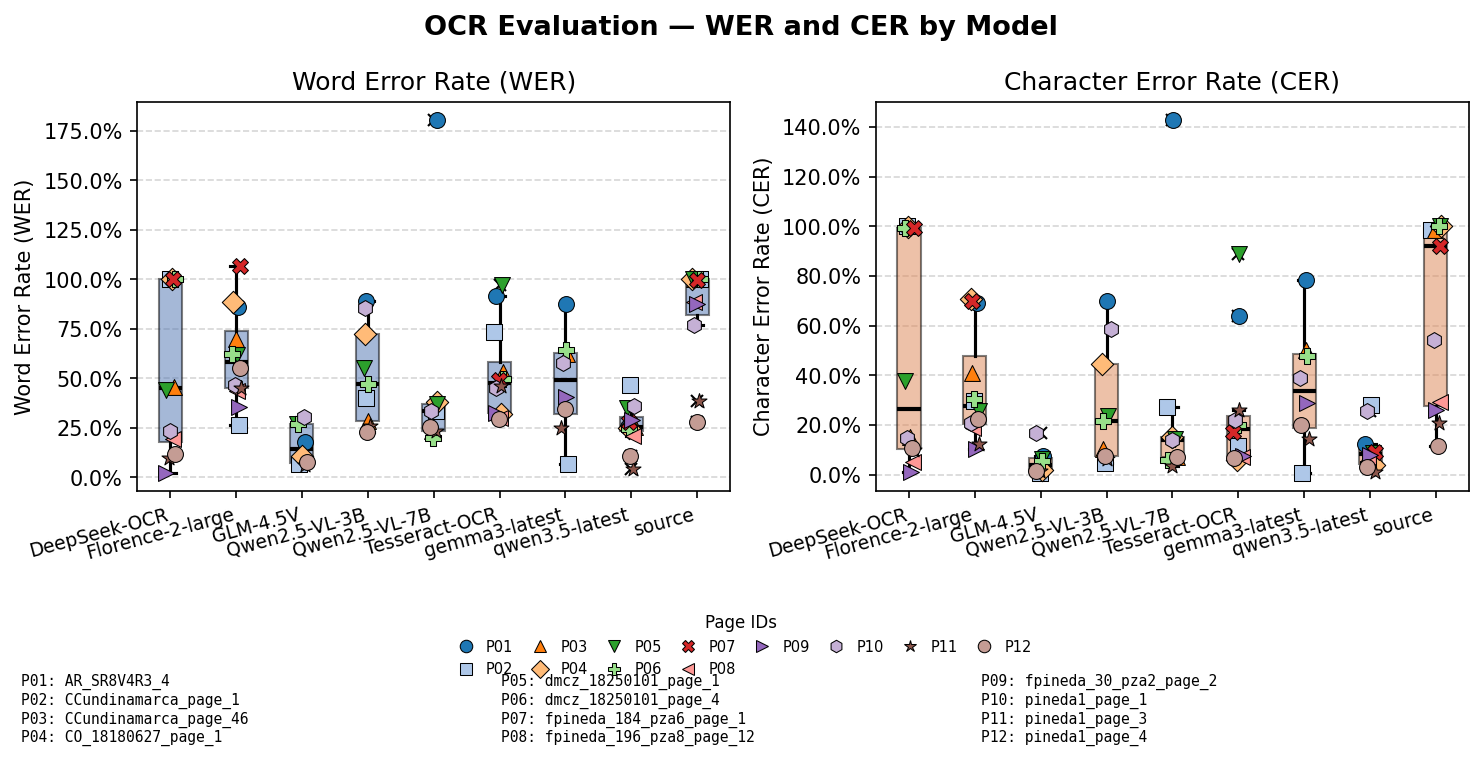
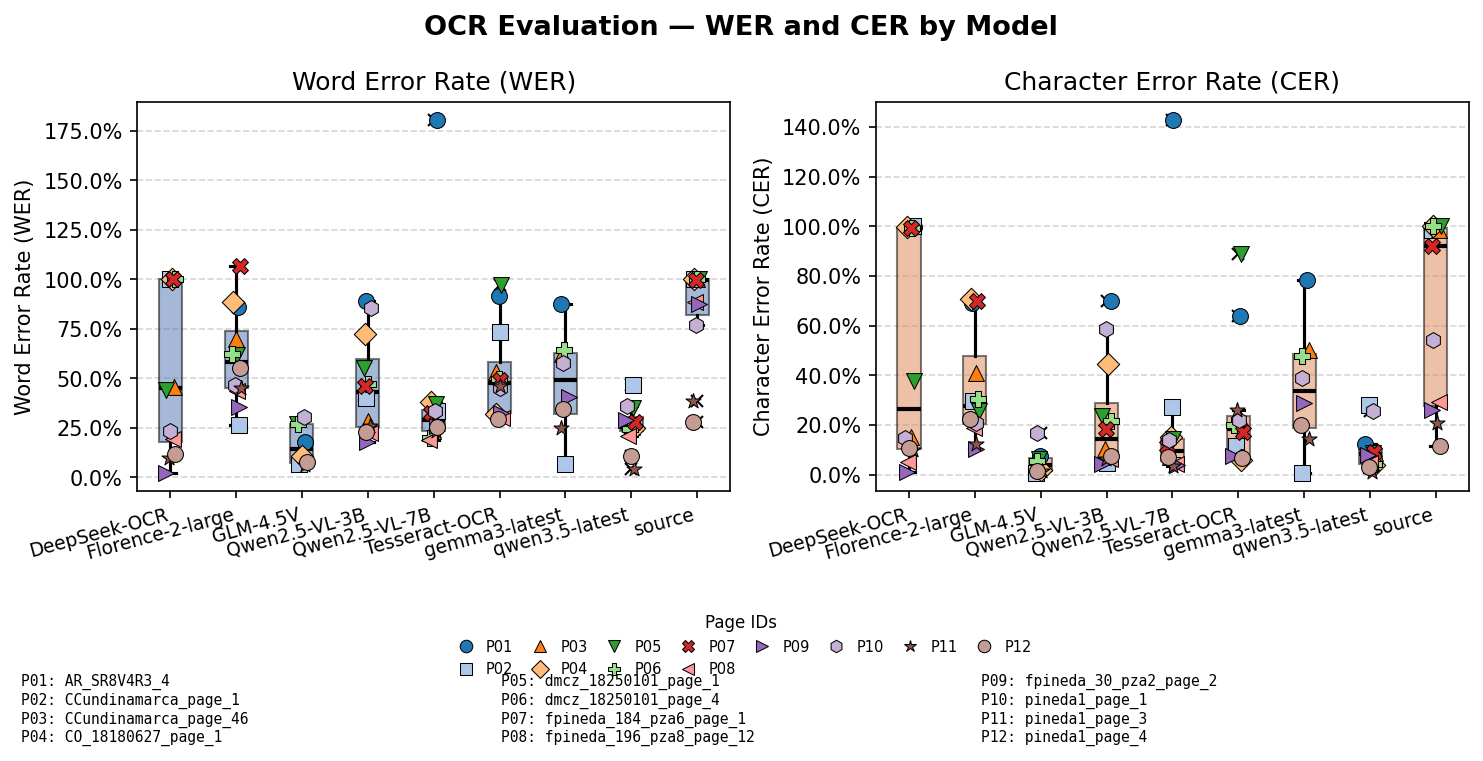
Add evaluations and transcriptions for historical documents
- Created evaluation JSON files for Qwen2.5-VL-3B and Qwen2.5-VL-7B models, including text, OCR, WER, and CER metrics.
- Added transcriptions in Markdown format for various historical documents, including "DIARIO POLITICO" and obituaries from the 18th century.
- Updated model notebook to include new image paths for evaluation.
- Modified results boxplot image to reflect new evaluation data.

diff --git a/transcriptions/Qwen2.5-VL-7B/fpineda_184_pza6_page_1.md b/transcriptions/Qwen2.5-VL-7B/fpineda_184_pza6_page_1.md
@@ -1,0 +1,42 @@
+```
+N.I.
+DIARIO POLITICO
+DE SANTAFE DE BOGOTA
+Agosto 27 de 1810.
+PROSPECTO.
+Pedicreptam se ad
+laudar libertate
+quam brevi creverit.... Livius.
+
+Difundir las fiezes, instruir á los pueblos, señalar los peligros que nos ameenzan, y el camino para evitarlos, fixar la opinion, reunir las volun-
+tades y alcanzar la libertad y la independencia solo puede conseguiurse por medio de la Imprenta. La circulacion rapida de los papeles publicos,
+la brevedad de los discursos, el lacornismo y la eleccion de las maneras
+que los caraterizan los hacen los mas aproposito para conseguir estos fines
+importantes Son utilles á todo pueblo civilizado, y preciosos en las convine-
+ncias politicas. Se multiplician á voluntade, llevan á todas partes los principio's,
+las laces, y dispinan los mudabilos que en todo momento forman la seducion y la est-
+humna. Solo ellos pueden inspirar la unión, estímar los espéritus, y tranquilzif
+los tempestades Qualquier otro medio es insuficiente, lento, y sospechoso,
+
+Nosotros, que el dia 20 de Julio de 1810 conquistamos nuestra
+independencia, nosotros, que formamos una junta en quien depositamos la
+authoridad, nosotros, que hemos visto degenerar en furor al zeio mos an-
+diente, y generoso, nosotros que hemos visto momentos de verdadera amar-
+quis, que aun no nos hemos organizado, que confundimos las providen-
+cias provisionales con la constitution, que queremos reyne la paz, el ór-
+den, y la ceredient en medio de las dias de una tempestad política, que
+nadvertsidos queremos cegar ya los frutos de una larga independence', nos
+exijimos de la Junja operaciones que necesitan estudio, prodúsice, me-
+diacion, y tiempo, nosotros, en una palabra, que fluctuamos en un Océano
+de ideas inmeçenas, sin experiencia, y casi sin principios necesiciamos d- diariopolítico que nuestros Frankinos y nuestros Washingtones derretían
+luezes y fixen nuestra incerteza y nuestra incertidumbre. La Capital ignora el
+modo de pensar de las provincias, y las provincias desean saber las lecota
+ciones de la Capital Tudo. El Reyno ha fixado ya sus ojos sobre nosotros,
+y nosotros debemos instruirlo por el conducto de la Imprenta.
+
+Ya se acabó este tiempo de silencio y de muerdios, y se rom-
+pieron las cadenas que han aplispanado á la razón y el ingernio despai-
+rciea para siempre esa reserva injusto á nuestra fidelidad, y ese secreto,
+
+©Biblioteca Nacional de Colombia
+```

diff --git a/transcriptions/Qwen2.5-VL-7B/fpineda_196_pza8_page_12.md b/transcriptions/Qwen2.5-VL-7B/fpineda_196_pza8_page_12.md
@@ -1,0 +1,27 @@
+Popayan 17 de julio de 1785.
+
+El 14 de este mes, â las 2 de la madrugada falleció en esta Ciudad, á los 76 años, to meses, y 23 diasde su edad el YlustrisimoSeñor Don Gerónimo Antonio de Obrong, y Mena, Obispo de esta Diócesis,
+natural de la Ciudad de Lima donde nació â 22 de Agosto de 1708,^ fué elevado á la dignidad Episcopal en 13 de Marzo de 1758. La prudencia, y suavidad con que por tan dilarado tiempo gozerno su Obispado, le hicieron ducio de los corazones de todos sus Subditos; ni podian esperarse menos provechosos efectos de su profunda litera-
+túr, y consumsada experiencia. En la práctica de las virtudes sobre-
+salío su espíritu en la de la Caridad, como ran propia de su Apostolico Ministerio; pues no siendo sus Rentas de las mas quantoosas, se ase-
+gura , pasaban de och mil pesos las limosas que anualmente repartia, sin contar las extraordinarias. Cumpliendo con su ultima dispoison, se depositó su corazón en el Convento de Religiosas de la Encarnación, sus entrañas en el de Carmen, también de Reli-
+giosas, y su cuerpo en la Cathedral, en que parece quiso manifes-
+tar el paternal amor con que, aunque difunto, queria difundirse entre sus amadas objas, ó porque tal vez las Religiosas se lo pi-
+dieron en vida. A este efecto, pasadas tres horas de su falcedimiento,
+se abrió el Cadaver, y separadas las partes referidas se em-
+balsamó, y colocó con la debida decencia en su mismo Palacio, en el qual se mantuvo expuesto al publico tres dias, durante este tiempo, celebraron Misa por su alma no pocos Sacerdotes Seculares, y Regu-
+lares, concurrendo todas las Comunidades á cantar cada una su Vi-
+gilía con la mayor solemnidad; y con la misma se conduxo accom-
+pañado de todas las personas de distinción el dia 16 â las 1o de la maiana, â la Yglesia Cathedral, donde se repitieron los Suffragios,
+y Exequias Funerales que se concluyeron á la una de la tarde. El Vicindario de Popayan quien en su Ylmo, y exemptlar Prelado ha per-
+didp un verdadero Padre, mantendra su memoria, y reconocido
+agradecimiento por muchos años.
+
+Aunque en esta Ciudad se sintió bastante la violencia del Terremoto del dia 12, no se sabe que haya causado estrago de
+consideracion.
+
+
+Con Licencia del Superior Govierno: en la Imprenta Real de D:
+
+
+Antonio Espinosa de los Monteros.

diff --git a/transcriptions/Qwen2.5-VL-3B/fpineda_184_pza6_page_1.md b/transcriptions/Qwen2.5-VL-3B/fpineda_184_pza6_page_1.md
@@ -1,0 +1,25 @@
+3
+N.I.
+DIARIO POLITICO
+DE SANTAFÉ DE BOGOTÁ.
+Agosto 27 de 1810.
+PROSPECTO.
+Sed increíble es admita libertat ex quisitó revertir...
+Difundie las facies, instruir á los pueblos, señalaros los peligros que nos amenazan, y el camino para evitarlos, fizar la opinión, reservar las voluntades y alazar la libertad, e independencia solo puede conseguirse por medio de la Imprenta. La circulación rápida de los papeles públicos, la brevedad de los discursos, el lenguaje y la elección de los mayores, que caracterizan le hacen los más apropiado para conegcrt estos fines importantes Son útiles á todo pueblo civilizado, y precisiós en las convicciones políticas. Se multiplican á voluntad, llevan á todas partes los principios, las luces, y disipan los malculos que en todo momentu forman la sedición y la exécutn. Solo ellos pueden inspirar la unión, estimular los espíritus, y tranquilizn las tempestades. Qualquira otra médio es insufficiente, lentó, y sospechoso.
+Nosotros, que el dia 10 de Julio de 1810 conquistamos nuestra
+independencia, nosotros, que formamos una junta en quien depositas
+la autoridad, nosotros, que hemos visto degenerar en fauter el zelo más aciey, e genesiofo, nosotros queremos visto momentes de verdadera angre, que aún no hemos organizado, que condumimos las provisen-
+ças previsionales con la constitución, que queremos reyno la paz, el ore,
+d y la eceneci ci med do las ohas de una tempérpide política, que
+madveridos queremos egei y los frutos d una larga indepeñdencia, que
+exigimos de la junta operaciones que necesitan estudio, previdência,
+socdiración, y tiempo, nosotros, en una palabra, que fluidamos en un Oasen
+de ideias invenç, sin experiencia, y casa sin principios desen;
+a Diario polital es que nuestros Franklines e nuestras Whishingers debrem
+yeces y fican extraor. ciento eucirte y nuestra incideyldne. la Capital ignomin
+el modo de penat das provincias, y las provinsianse deberán saber las insolu
+conceas de la Capta 1dalo Reyon feido su eje seboj novotts, e nosotros deben
+uivindrlo por lo conduo d la Imprant.
+Y seabo ese tempo de silencio y de matos, e se compie-
+ronas cadenas que hayen epticéndase al la taza; e lo ingenio dispoc-
+ció para siempre essa sevua injuiosa á oura fiódiey, y ese secrelo...

diff --git a/transcriptions/Qwen2.5-VL-3B/fpineda_196_pza8_page_12.md b/transcriptions/Qwen2.5-VL-3B/fpineda_196_pza8_page_12.md
@@ -1,0 +1,4 @@
+Popayán 17 de Julio de 1785.
+El 14 de este mes, a las 2 de la madrugada falleció en esta Ciudad, a los 76 años, 10 meses y 23 días su edad. El Vlstruyciano Señor Don Gerónimo Antonio de Obraycón, y Mená, Obispo de esta Díocesis, natural de la Ciudad de Lima donde nació el 2 de Agosto de 1798, fue elevado a la dignidad Episcopal en 13 de Marzo de 1798. La prudencia, y suavidad con que por un dilatado tiempo gobernó su Obispado, lo hicieron dueno de los corazones de todos sus Suhbítos; ni podían esperarse menos provocados efectos de su profunda literatura, y consumada experiencia. En la práctica de las virtudes sobredi: salió el espíritu de la L. Carlos, como tan propia de su Apostolico Ministerio; pues no siendo sus Rentas de las mas quantíosas, se asegura, pasaban de ocho mil pesos los limosos que anualmente repartía, sin contar las extraordinarias. Cumpliendo con su última disposición, se depositó su corazón en el Convento de Religiosas de la Encarnación, sus entrañas en el de Carmen, también de Religiosas, y su cuerpo en la Cathedral, en qué parece quiso manifestar el paternal amor con que, aunque difunto, quería difundirse entre sus amados objes. ó por tal vez las Religiosas se lo pidieron en vida. A ese efecto, pasadas tres horas de su fallecimiento, se abrió el Cadaver, y se separaron las partes referidas se embalsamó, y colocó con la debida decencia en su mismo Palacio, en el qual se manto expuesto al público tres días, durante este tiempo celebraron Misas por su alma no pocos Sacerdotes Seculares, y Regulares, concurrendo todas Comunidades a cantar cada una su Vielícula con la mayor solennidad; y con la misma se condujo acompañado de todas las personas de distinción el día 16 las 10 de la mañana, a la Yglesia Cathedral, donde se repetirieron los Suffragios, Exequias Funecrías que se concluyeron à la una de la tarde. El Vecindario de Popayán quemen su Ilmo., y exemplar Preládo ha perdido un verdadero Padre, mantendrá su memoria, y reconocido agradecimiento por muchos años.
+Aunque en esta Ciudad se sintió bastante la violencia del Terremoto del día 12, no se sabe que haya causado estrago de consideración.
+Con Licencia del Superior Gobierno: en la Imprenta Real de Don Antonio Espinosa de los Monteros.

diff --git a/transcriptions/Qwen2.5-VL-7B/fpineda_30_pza2_page_2.md b/transcriptions/Qwen2.5-VL-7B/fpineda_30_pza2_page_2.md
@@ -1,0 +1,22 @@
+2
+tan inestimable beneficio! Usando, pues de
+esta preciosa facultad ofrecemos la publicacion
+de este papel que saldrá los lunes con el ob-
+jeto de inspirar amor à la virtud i aborreci-
+miento al vicio, con maximás de moral i ur-
+banidad para instruccion de los niños. No
+juzgarémos la conducta publica ni privada de
+ningun empleado ni admitirémos ningun co-
+municado que sea ofensivo á ningun individuo;
+i esperamos de los ciudadanos virtuosos, aunan-
+tes de la felicidad comun, se sirvan honrar-
+nos con sus luces para cultivar la semilla que
+escojimos, cuyas comunicaciones se reciben
+en la tienda donde se vende. Si este papel
+nos diese con que hacer el costo de la prensa
+continuaremós algun tiempo publicandolo, i tra-
+tarémos de cuanto creamos conducente al bien
+de la sociedad.
+
+JUEGO.
+El vicio que causa mas perjuicios á la so

diff --git a/transcriptions/Qwen2.5-VL-3B/fpineda_30_pza2_page_2.md b/transcriptions/Qwen2.5-VL-3B/fpineda_30_pza2_page_2.md
@@ -1,0 +1,5 @@
+tan inestimable beneficio! Usando, pues de esta preciosa facultad ofrecemos la publicacion de este papel que saldrá los lunes con el ojejo de inspirar amor á la virtud j aborrecimiento al vicio, con maximas de moral i urb anidad para instruccion de los ninos. No juzgarernos la conducta puhica ni privada de ninno empleado ni admitiremos ningun comunicado que sea ofensiva a ninguna individuo; i esperamons de los ciudadanos virtuosos, anantes de la felicidad comon. se sirvan honrrarnos con sus luces para cultivar la semilla que escojimos, cujas comunicaciones se recieben en la tienda donde se vende. Si este papel nos dise con que hacer el costo de la prensa continuar emos algun tiempo publicandolo, i tarremos de cuanto creamos conducente al bien de la sociedad.
+
+JUEGO.
+
+El vicio que causa mas perjuicios á la s
